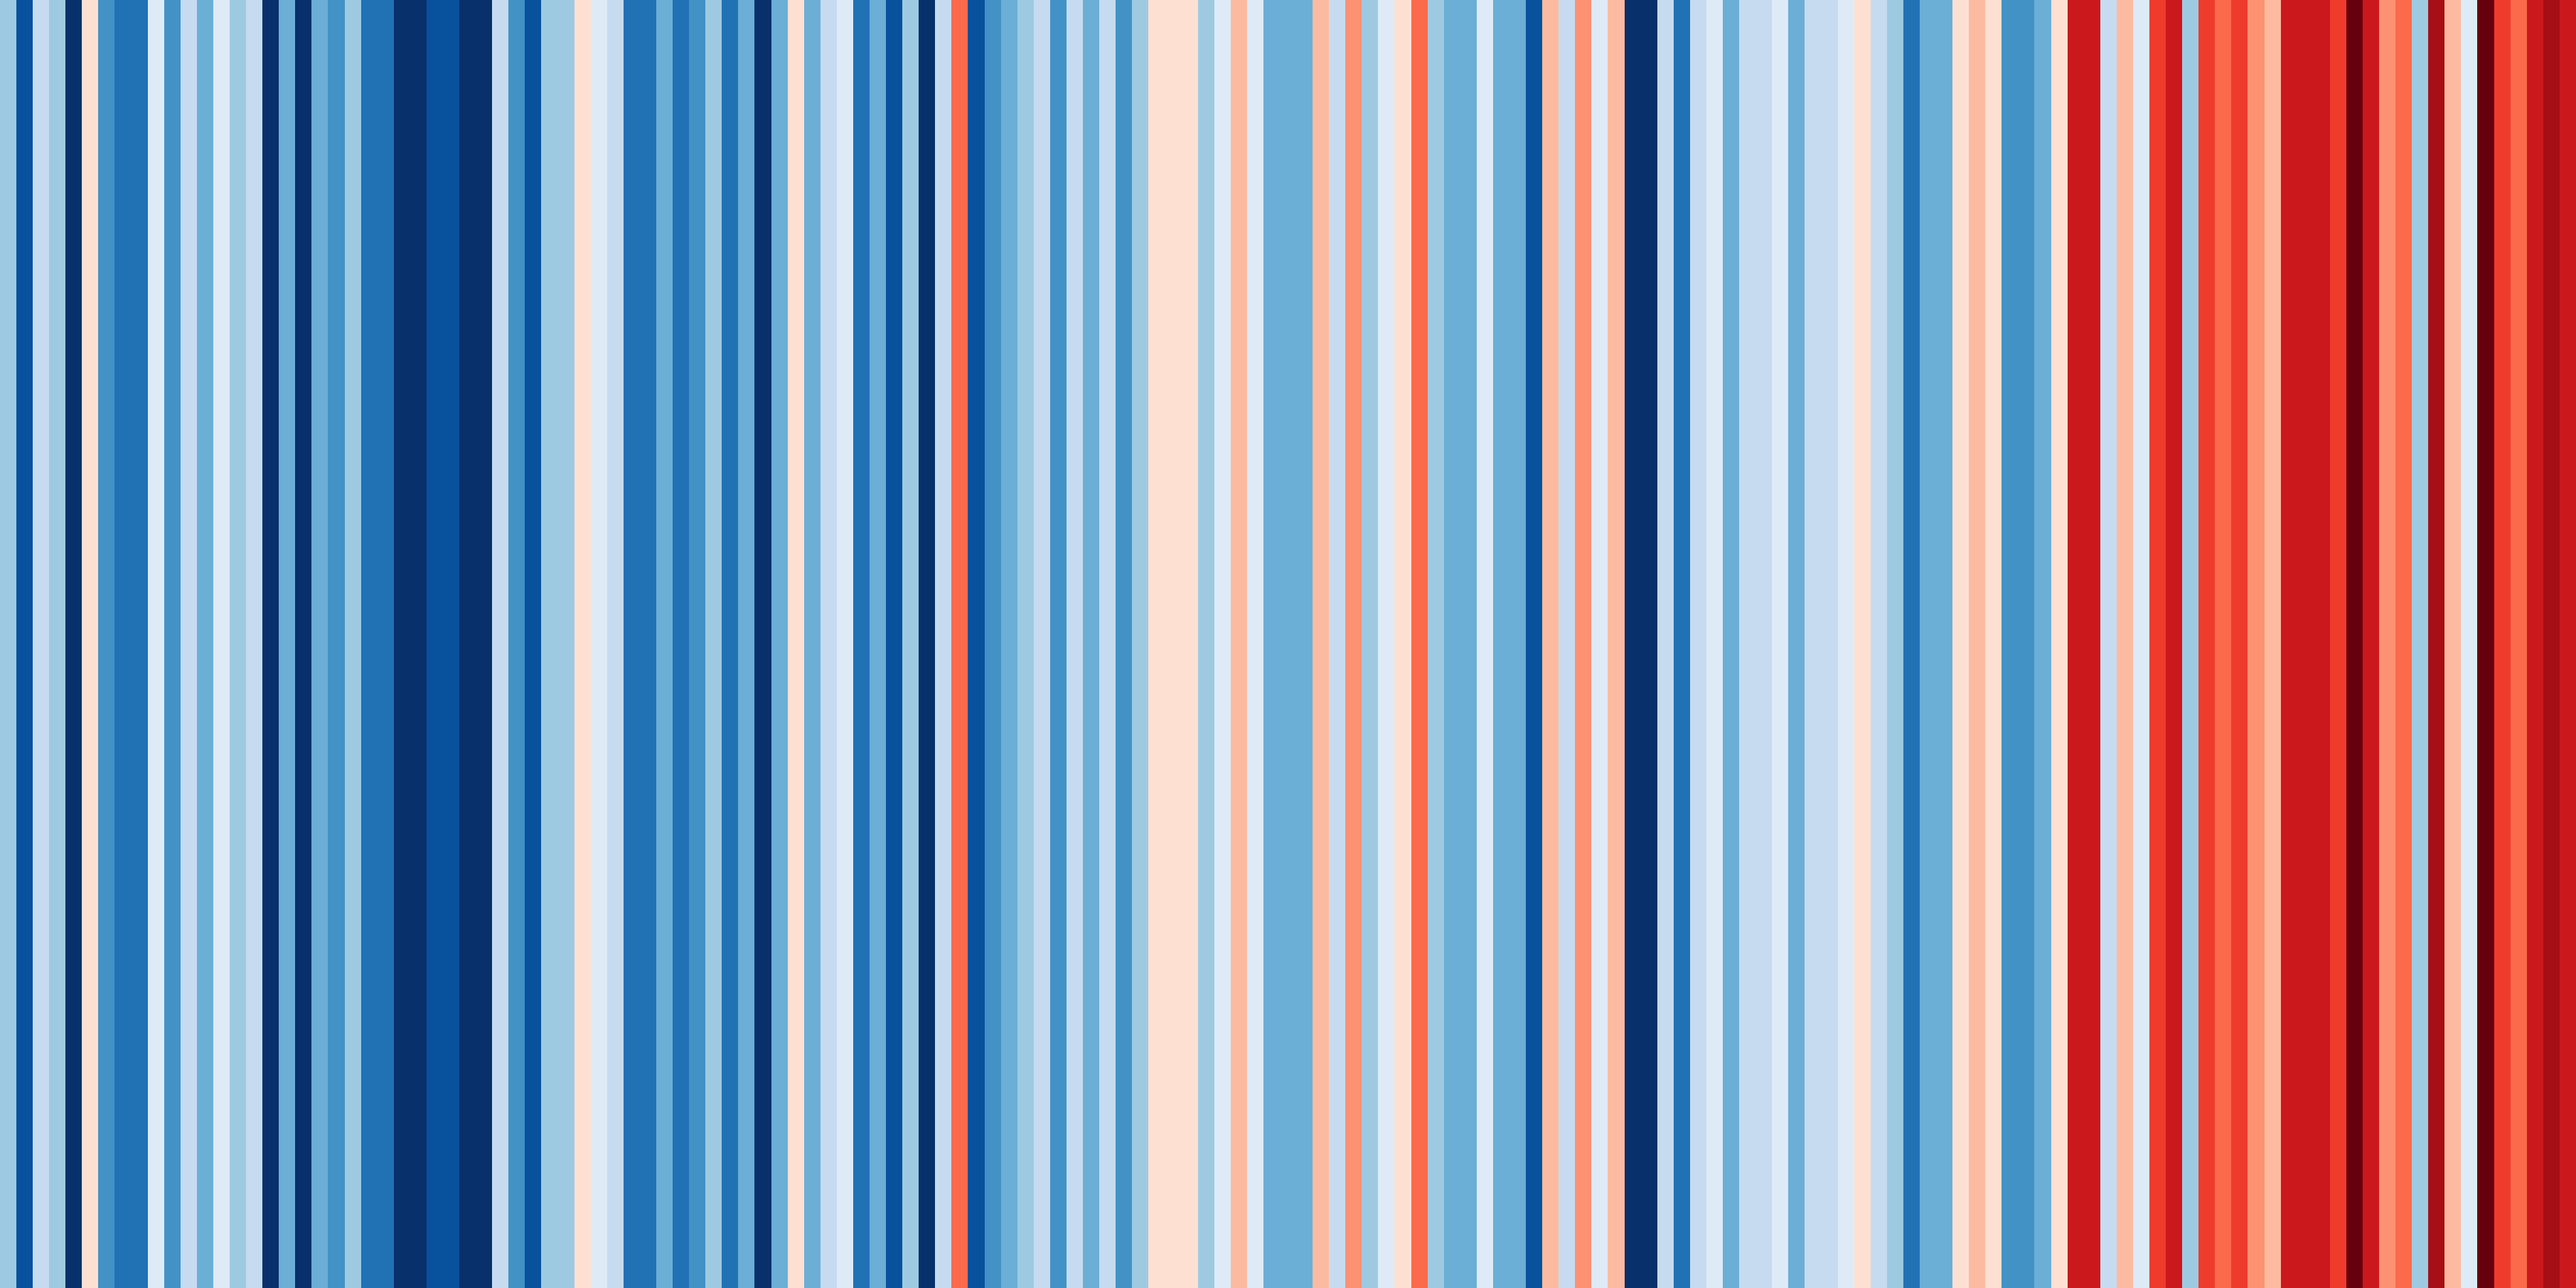
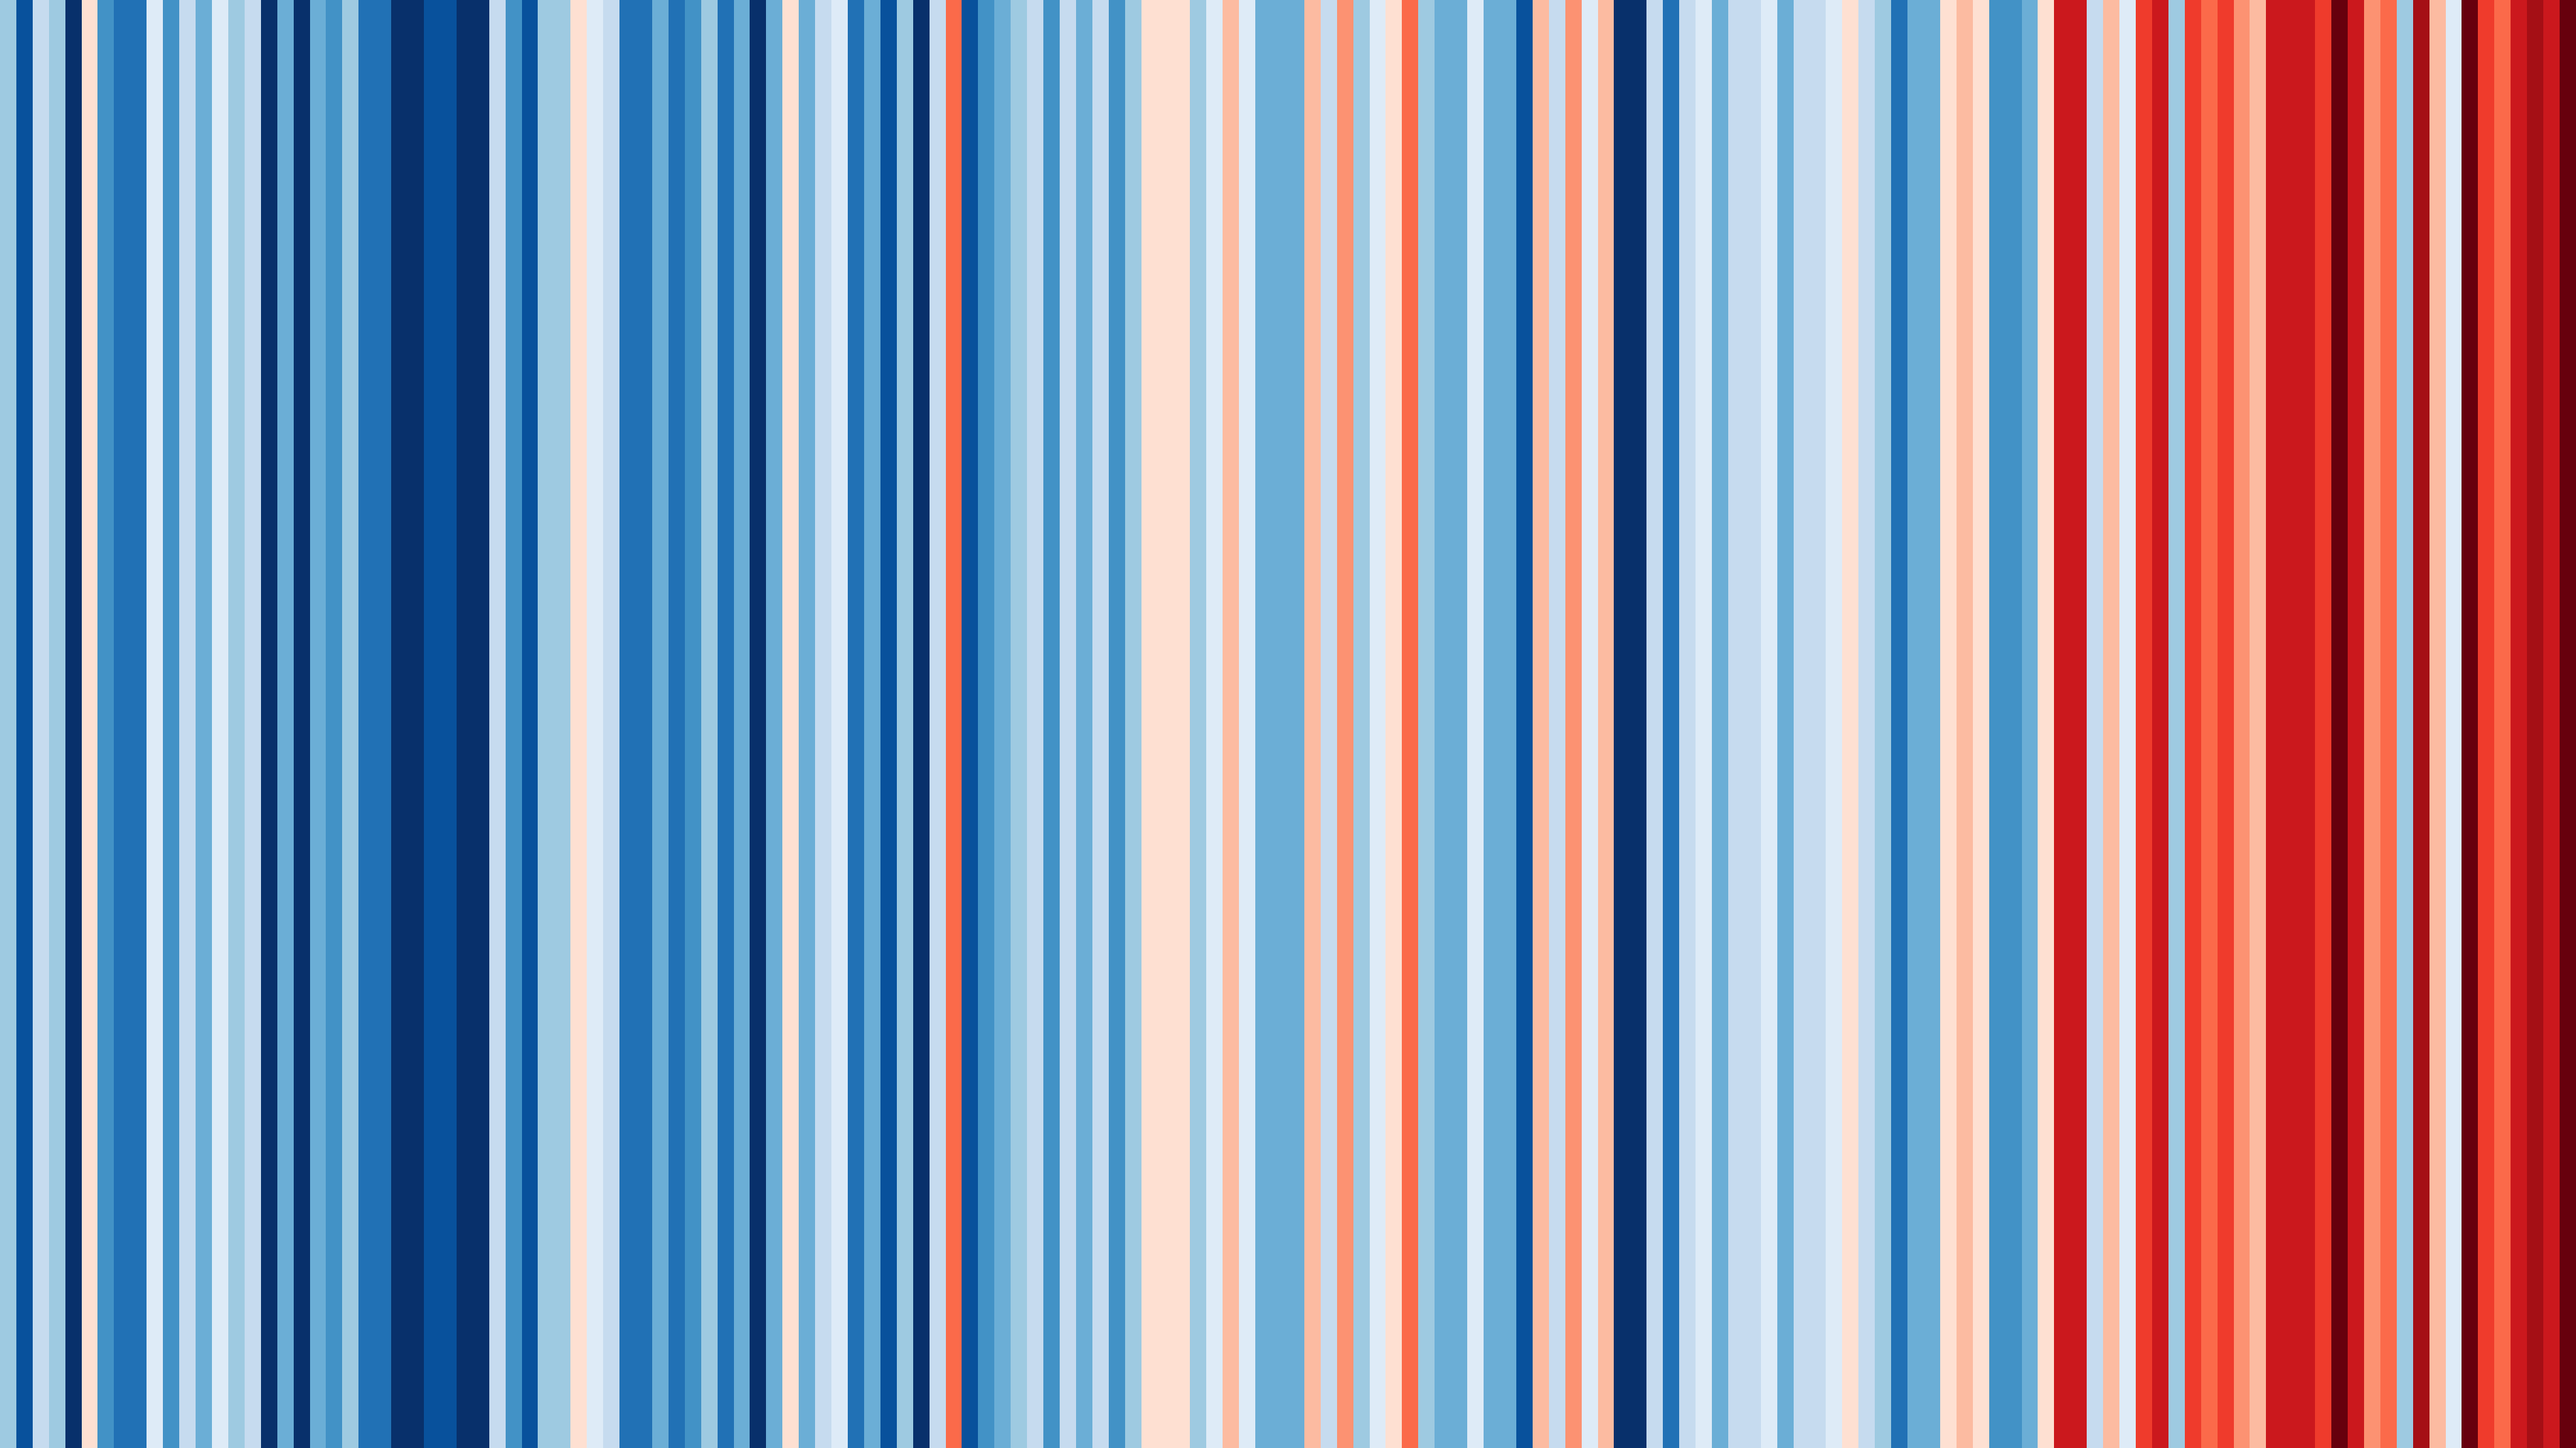
Update profile README Warming Stripes: extend w/ year 2020 & crop

diff --git a/README.md b/README.md
@@ -23,7 +23,7 @@
 </p>
 
 <p align="center">
-  Warming Stripes* for my location, Berkshire (UK), from 1863-2019<br>
+  Warming Stripes* for my location, Berkshire (UK), from 1863-2020<br>
   <small>*infographic designed by Prof. Ed Hawkins (University of Reading)</small><br>
-  <img src="https://github.com/sadielbartholomew/sadielbartholomew/blob/master/profile-media/berkshire_warming_stripes_attr_ed_hawkins.png?raw=true">
+  <img src="https://github.com/sadielbartholomew/sadielbartholomew/blob/master/profile-media/berkshire_warming_stripes_attr_ed_hawkins_cropped.png?raw=true">
 </p>
